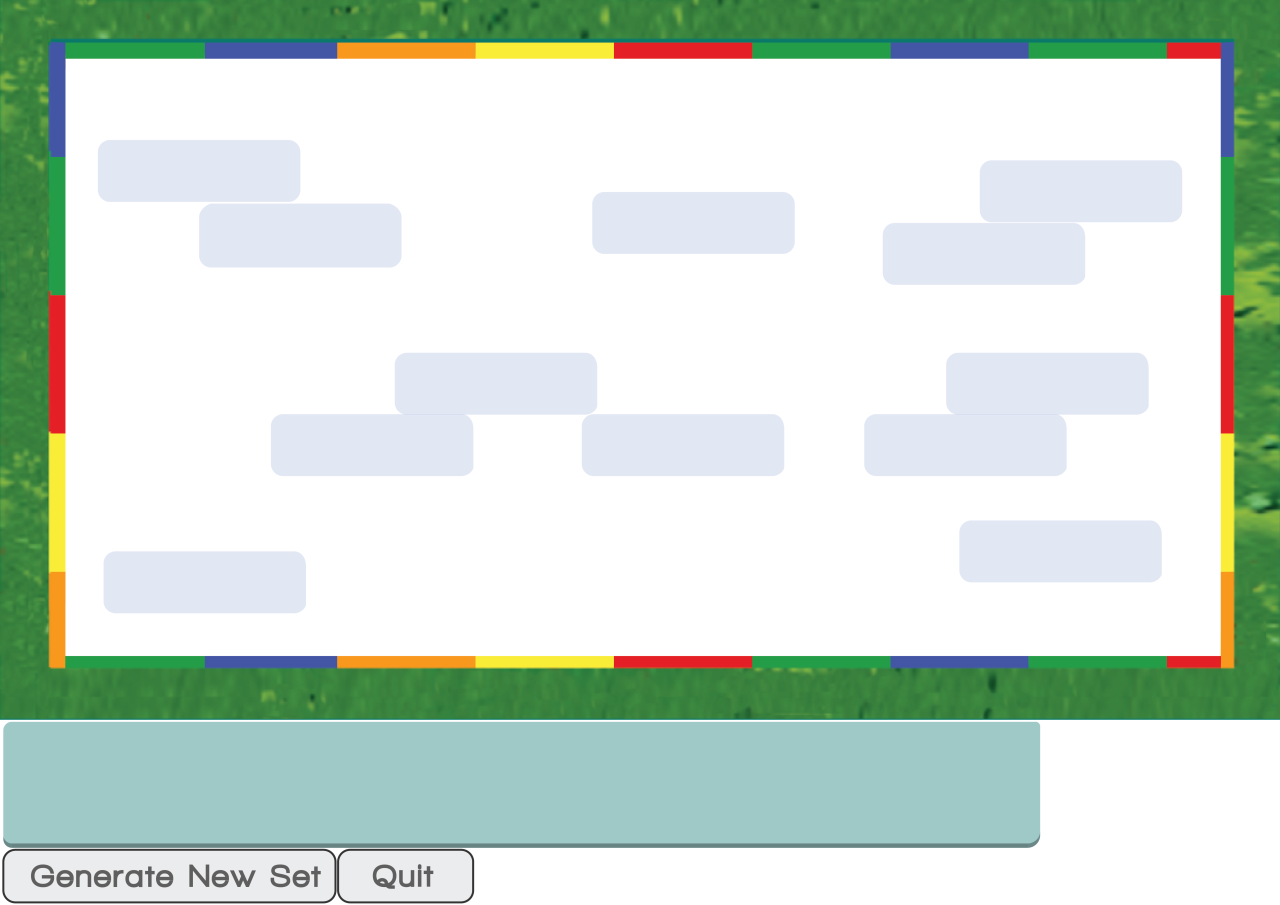
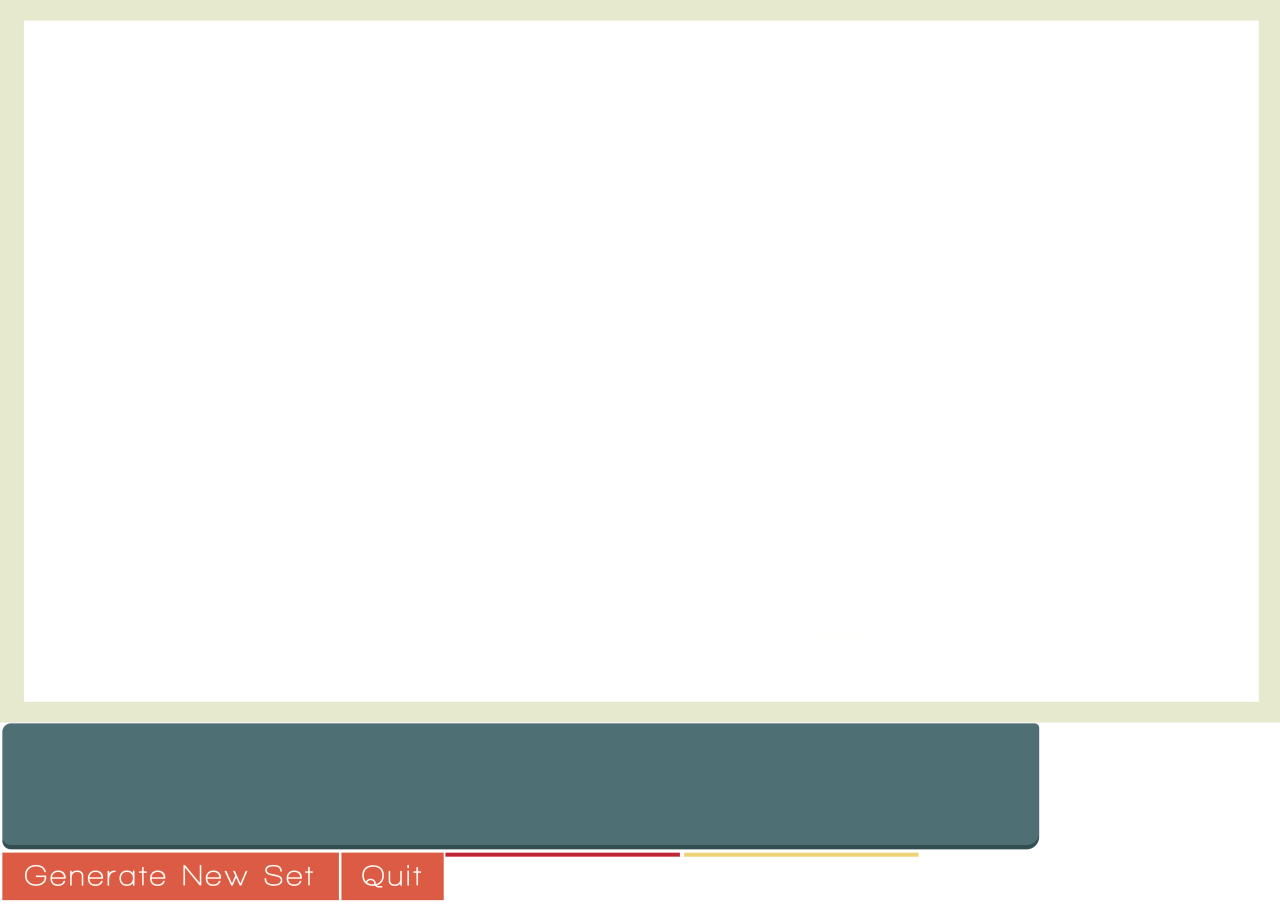
Grass border

diff --git a/core/src/com/colim/anglexplore/stages/GameStage.java b/core/src/com/colim/anglexplore/stages/GameStage.java
@@ -100,7 +100,7 @@ public class GameStage extends Stage {
         parameter.size = 30;
         BitmapFont font = generator.generateFont(parameter); // font size 12 pixels
         generator.dispose();
-        text = new Text("", new Label.LabelStyle(font, Color.FIREBRICK));
+        text = new Text("", new Label.LabelStyle(font, Color.WHITE));
         text.setWrap(true);
         text.setWidth(3 * Constants.WORLD_WIDTH / 4);
         addActor(text);
@@ -118,12 +118,12 @@ public class GameStage extends Stage {
 
         // another ugly hack
         List<Vector2> initialPositions = new LinkedList<Vector2>();
-        initialPositions.add(new Vector2(Constants.WORLD_WIDTH /4 , 3* Constants.WORLD_HEIGHT /4 ));
-        initialPositions.add(new Vector2(2 * Constants.WORLD_WIDTH /4 , 3* Constants.WORLD_HEIGHT /4 ));
-        initialPositions.add(new Vector2(3 * Constants.WORLD_WIDTH /4 , 3* Constants.WORLD_HEIGHT /4 ));
-        initialPositions.add(new Vector2(Constants.WORLD_WIDTH /4 , 2* Constants.WORLD_HEIGHT /4 ));
-        initialPositions.add(new Vector2(2 * Constants.WORLD_WIDTH /4 , 2* Constants.WORLD_HEIGHT /4 ));
-        initialPositions.add(new Vector2(3 * Constants.WORLD_WIDTH /4 , 2* Constants.WORLD_HEIGHT /4 ));
+        initialPositions.add(new Vector2(Constants.WORLD_WIDTH /4 , 3* Constants.WORLD_HEIGHT /4 - 40));
+        initialPositions.add(new Vector2(2 * Constants.WORLD_WIDTH /4 , 3* Constants.WORLD_HEIGHT /4 - 40));
+        initialPositions.add(new Vector2(3 * Constants.WORLD_WIDTH /4 , 3* Constants.WORLD_HEIGHT /4 - 40));
+        initialPositions.add(new Vector2(Constants.WORLD_WIDTH /4 , 2* Constants.WORLD_HEIGHT /4 - 40));
+        initialPositions.add(new Vector2(2 * Constants.WORLD_WIDTH /4 , 2* Constants.WORLD_HEIGHT /4 - 40));
+        initialPositions.add(new Vector2(3 * Constants.WORLD_WIDTH /4 , 2* Constants.WORLD_HEIGHT /4 - 40));
         Collections.shuffle(initialPositions);
 
         angles.add(new GameAngle(pointTexture, armTexture, arrowClockwiseTexture, arrowCounterclockwiseTexture, lettersTextures.getLetter(letters.get(0)), letters.get(0), initialPositions.get(0) , angle_x));

diff --git a/core/src/com/colim/anglexplore/utils/AssetLoaderGame.java b/core/src/com/colim/anglexplore/utils/AssetLoaderGame.java
@@ -12,19 +12,20 @@ import java.util.List;
  * Created by jerelynco on 12/21/15.
  */
 public class AssetLoaderGame {
-    public static Texture texturesGame, texturesGameSelected, textureClockwise, textureCounterclockwise;
-    public static TextureRegion vertex, arm, arrowClockwise, arrowCounterclockwise;
+    public static Texture texturesGame, texturesGameSelected, texturesHighlightArm, textureClockwise, textureCounterclockwise;
+    public static TextureRegion vertex, arm, highlightArm, arrowClockwise, arrowCounterclockwise;
     public static List<TextureRegion> letters = new ArrayList<TextureRegion>();
 
     public static void load() {
         texturesGame = new Texture(Gdx.files.internal("AssetsGame.png"));
         texturesGameSelected = new Texture(Gdx.files.internal("AssetsArrows.png"));
+        texturesHighlightArm = new Texture(Gdx.files.internal("AssetsUI.png"));
 
         texturesGame.setFilter(Texture.TextureFilter.Nearest, Texture.TextureFilter.Nearest);
         vertex = new TextureRegion(texturesGame, 0, 82, 28, 28);
         //arm = new TextureRegion(texturesGame, 66, 104, 127, 5);
         // 2x higher
-        arm = new TextureRegion(texturesGame, 66, 99, 127, 10);
+        arm = new TextureRegion(texturesGame, 66, 99, 150, 10);
 
         arrowClockwise = new TextureRegion(texturesGameSelected, 6, 11, 63, 63);
         arrowCounterclockwise = new TextureRegion(texturesGameSelected, 74, 0, 74, 81);

diff --git a/core/src/com/colim/anglexplore/utils/AssetLoaderUI.java b/core/src/com/colim/anglexplore/utils/AssetLoaderUI.java
@@ -9,16 +9,16 @@ import com.badlogic.gdx.graphics.g2d.TextureRegion;
  */
 public class AssetLoaderUI {
     public static Texture texturesUI;
-    public static TextureRegion bg, text_box, button_ok, button_ok_pressed, button_generate, button_generate_pressed, button_quit, button_quit_pressed;
+    public static TextureRegion bg, text_box, button_generate, button_quit;
 
     public static void load() {
         texturesUI = new Texture(Gdx.files.internal("AssetsUI.png"));
         texturesUI.setFilter(Texture.TextureFilter.Nearest, Texture.TextureFilter.Nearest);
 
         bg = new TextureRegion(texturesUI, 0, 0, 1280, 720);
-        text_box = new TextureRegion(texturesUI, 0, 720, 1040, 128);
-        button_generate = new TextureRegion(texturesUI, 0, 848, 337, 56);
-        button_quit = new TextureRegion(texturesUI, 337, 848, 170, 56);
+        text_box = new TextureRegion(texturesUI, 2, 725, 1040, 124);
+        button_generate = new TextureRegion(texturesUI, 0, 853, 337, 56);
+        button_quit = new TextureRegion(texturesUI, 340, 853, 100, 56);
     }
 
     public static void dispose(){

diff --git a/core/src/com/colim/anglexplore/actors/GameUI.java b/core/src/com/colim/anglexplore/actors/GameUI.java
@@ -44,9 +44,9 @@ public class GameUI extends Group{
         generate = new Image(generateTexture);
         quit = new Image(quitTexture);
 
-        quit.setPosition(4*Constants.WORLD_WIDTH /5, Constants.WORLD_HEIGHT / 6, Align.center);
-        generate.setPosition(Constants.WORLD_WIDTH /3, Constants.WORLD_HEIGHT / 6, Align.center);
-        textBox.setPosition(Constants.WORLD_WIDTH/2,  3 * Constants.WORLD_HEIGHT/ 10, Align.center);
+        quit.setPosition(4*Constants.WORLD_WIDTH /5, Constants.WORLD_HEIGHT / 10, Align.center);
+        generate.setPosition(Constants.WORLD_WIDTH /3, Constants.WORLD_HEIGHT / 10, Align.center);
+        textBox.setPosition(Constants.WORLD_WIDTH/2,  1 * Constants.WORLD_HEIGHT/ 4, Align.center);
 
         addActor(bg);
         addActor(generate);

diff --git a/core/src/com/colim/anglexplore/screens/StartScreen.java b/core/src/com/colim/anglexplore/screens/StartScreen.java
@@ -23,7 +23,7 @@ import com.colim.anglexplore.utils.Constants;
 public class StartScreen extends ScreenAdapter {
 
     private Stage stage;
-    private TextureRegion startScreenTexture, tapToContinueTexture, tutorialTexture;
+    private TextureRegion startScreenTexture, tutorialTexture;
 
 
     private Game game;
